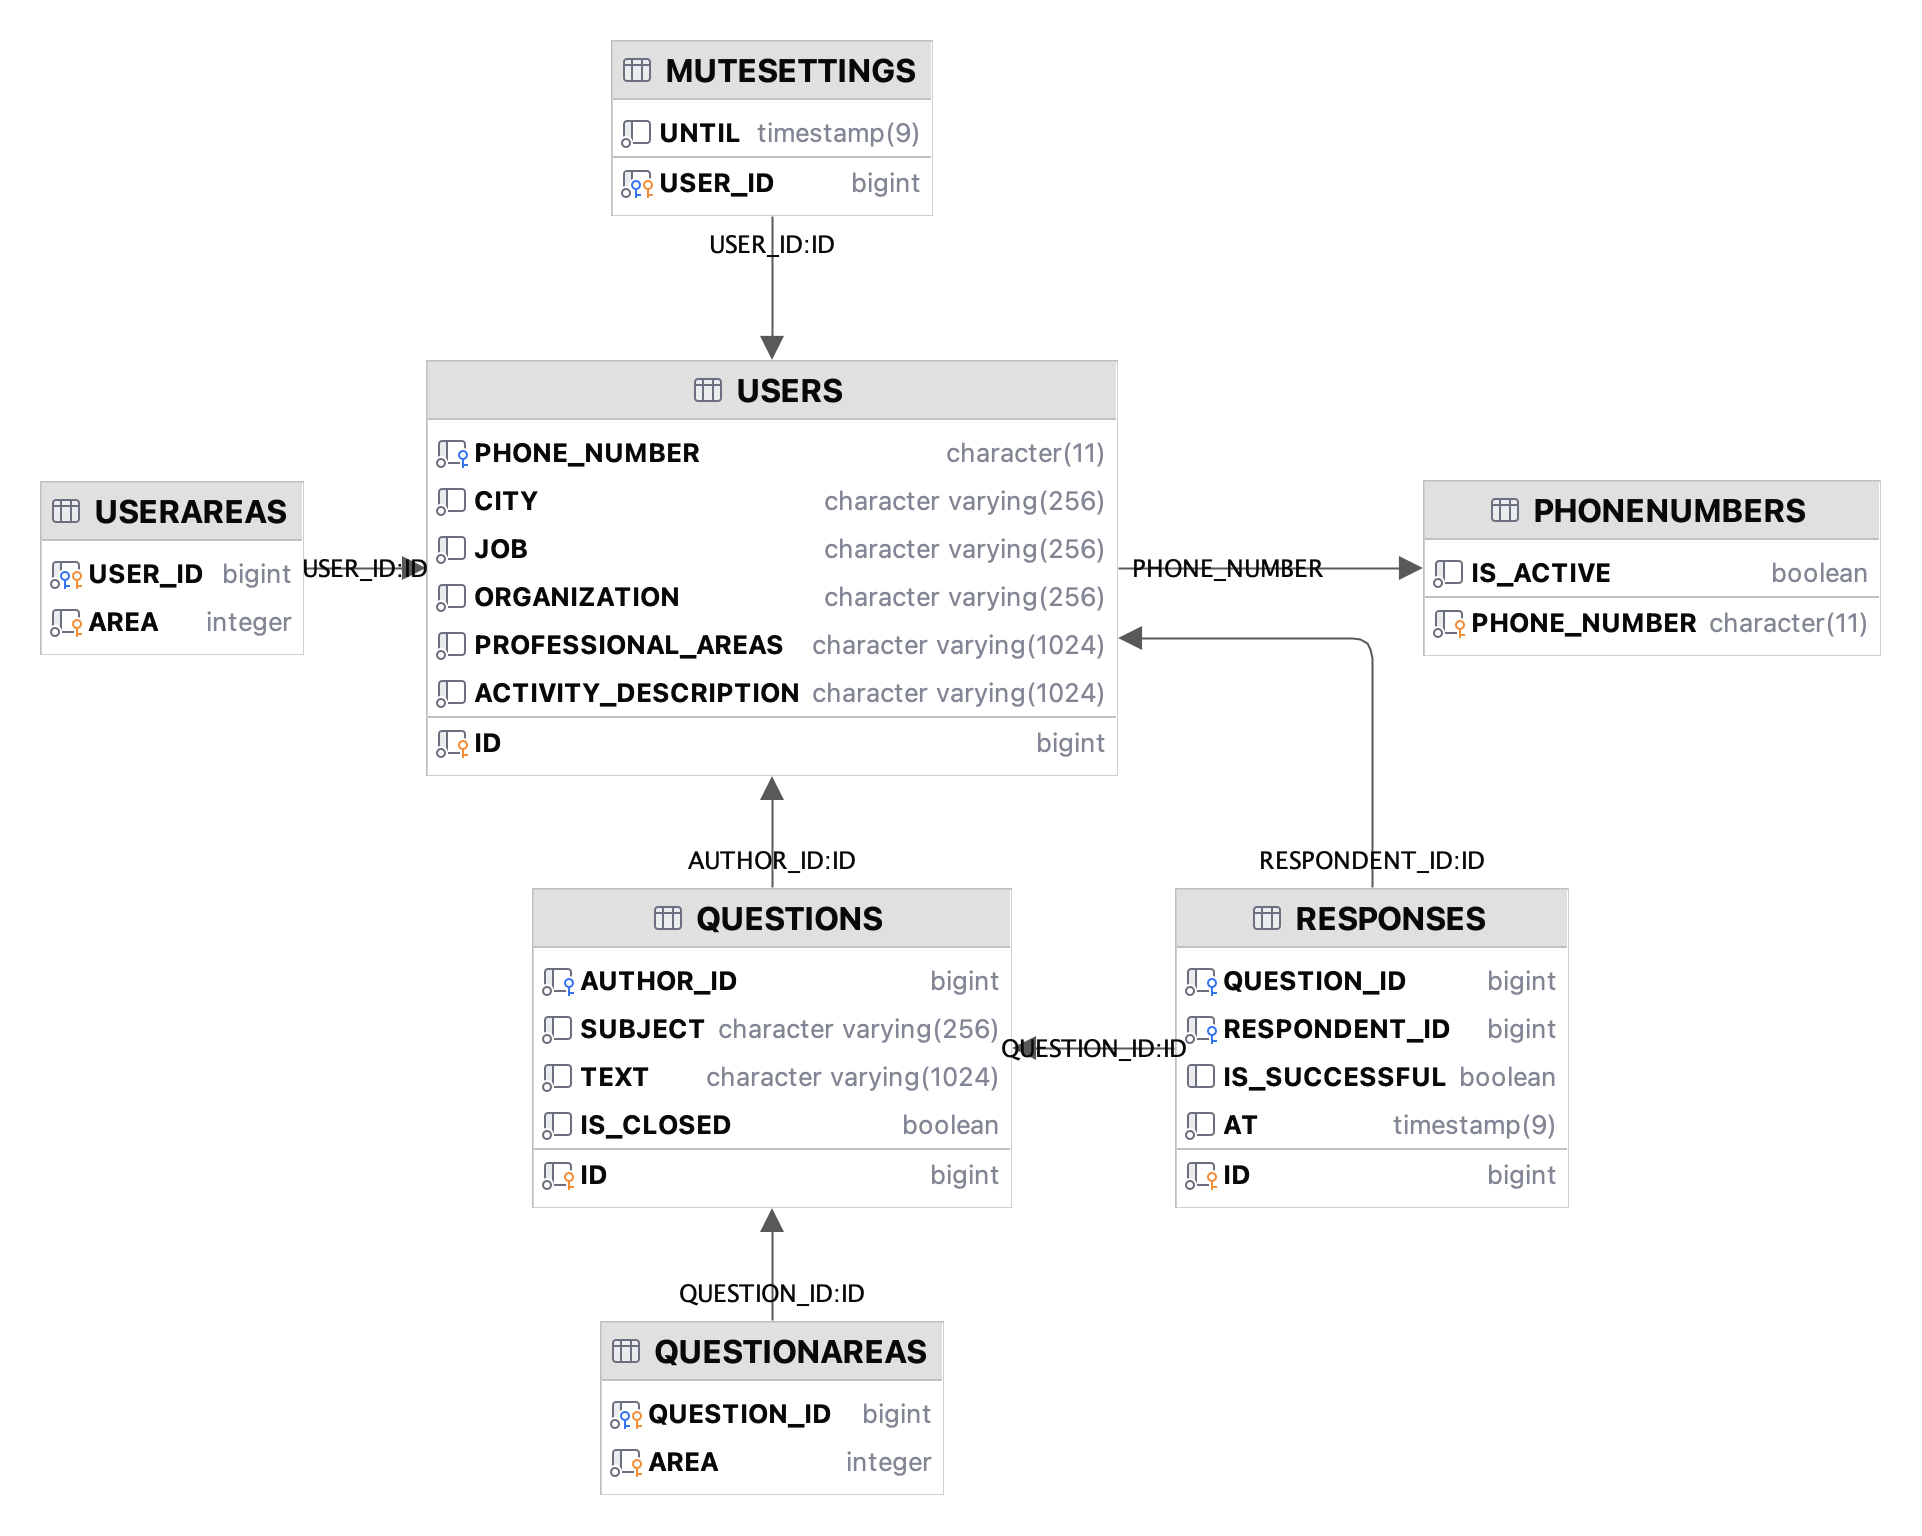
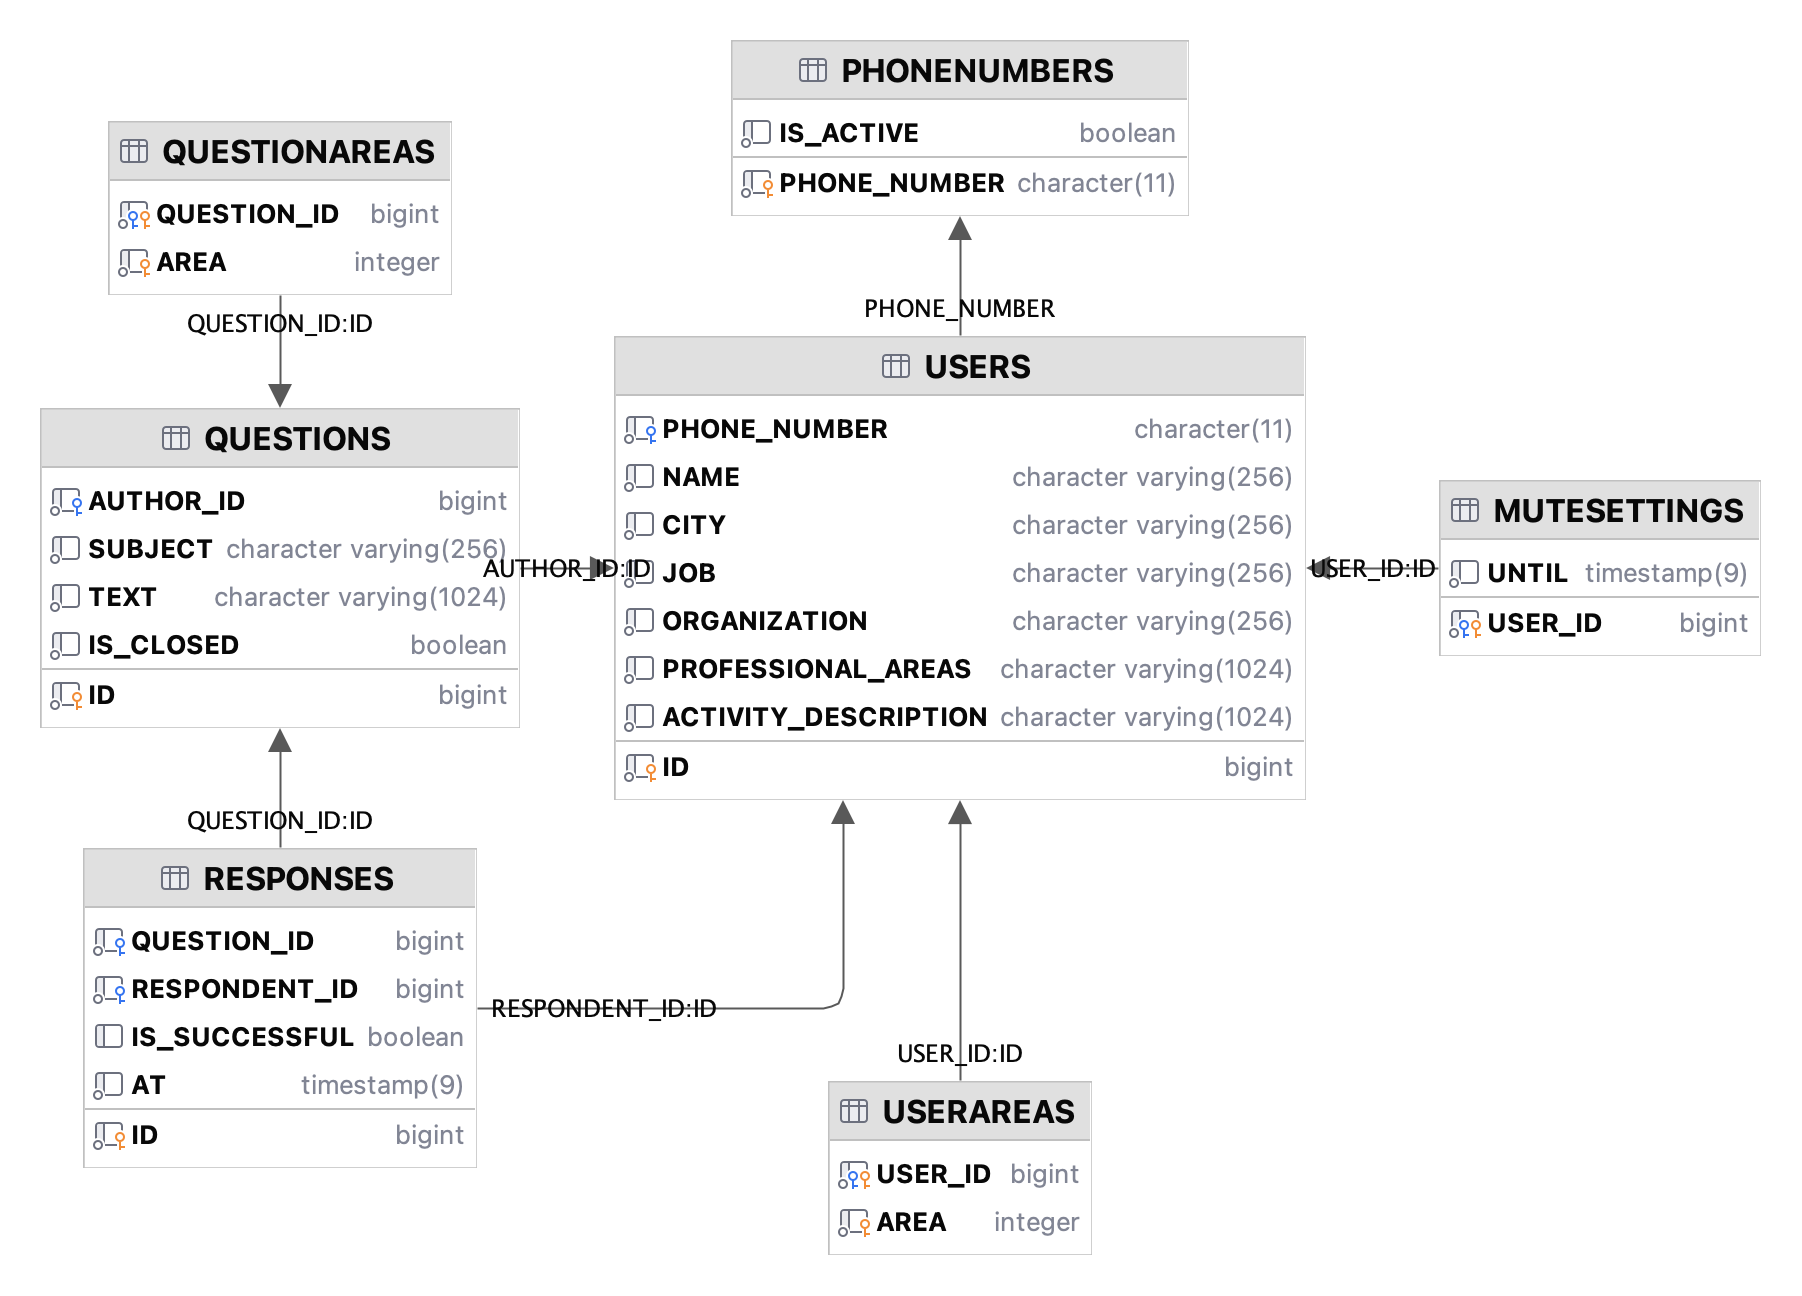
Add name to Users table for sending contact

diff --git a/src/test/kotlin/auth/domain/usecases/RegisterUserUseCaseTest.kt b/src/test/kotlin/auth/domain/usecases/RegisterUserUseCaseTest.kt
@@ -18,6 +18,7 @@ internal class RegisterUserUseCaseTest {
     private val sampleUserDetails = User.Details(
         id = sampleUserId,
         phoneNumber = samplePhoneNumber,
+        name = "Александр",
         city = "Санкт-Петербург",
         job = "Главный специалист",
         organization = "Организация",
@@ -84,6 +85,7 @@ internal class RegisterUserUseCaseTest {
         val userRepository = mockk<UserRepository>()
         every { userRepository.isRegistered(sampleUserId) } returns false
         every { userRepository.containsUserWithPhoneNumber(samplePhoneNumber) } returns false
+        every { userRepository.add(details) } returns Unit
         val phoneNumberRepository = mockk<PhoneNumberRepository>()
         every { phoneNumberRepository.isActive(samplePhoneNumber) } returns true
         val registerUser = RegisterUserUseCase(phoneNumberRepository, userRepository, NoOpTransaction)

diff --git a/src/main/kotlin/auth/data/repository/UserRepositoryImpl.kt b/src/main/kotlin/auth/data/repository/UserRepositoryImpl.kt
@@ -15,6 +15,7 @@ class UserRepositoryImpl : UserRepository {
     override fun add(user: User.Details) {
         Users.insert {
             it[phoneNumber] = user.phoneNumber.value
+            it[name] = user.name
             it[city] = user.city
             it[job] = user.job
             it[organization] = user.organization
@@ -33,6 +34,7 @@ class UserRepositoryImpl : UserRepository {
             User.Details(
                 id = it[Users.id].value,
                 phoneNumber = PhoneNumber.of(it[Users.phoneNumber])!!,
+                name = it[Users.name],
                 city = it[Users.city],
                 professionalAreas = it[Users.professionalAreas],
                 job = it[Users.job],

diff --git a/src/main/kotlin/auth/data/tables/Users.kt b/src/main/kotlin/auth/data/tables/Users.kt
@@ -5,6 +5,7 @@ import org.jetbrains.exposed.sql.Column
 
 object Users : LongIdTable() {
     val phoneNumber: Column<String> = reference("phone_number", PhoneNumbers.phoneNumber).uniqueIndex()
+    val name: Column<String> = varchar("name", length = 256)
     val city: Column<String> = varchar("city", length = 256)
     val job: Column<String> = varchar("job", length = 256)
     val organization: Column<String> = varchar("organization", length = 256)

diff --git a/src/main/kotlin/auth/domain/entities/User.kt b/src/main/kotlin/auth/domain/entities/User.kt
@@ -10,6 +10,7 @@ sealed interface User {
     data class Details(
         val id: Long,
         val phoneNumber: PhoneNumber,
+        val name: String,
         val city: String,
         val job: String,
         val organization: String,
